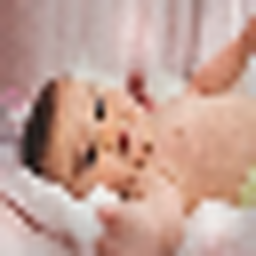
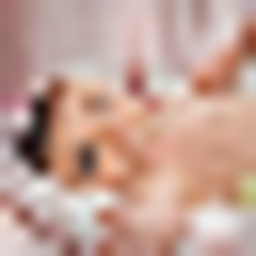
16

diff --git a/preprocess.py b/preprocess.py
@@ -44,4 +44,4 @@ def down(path, factor):
 new_path = os.path.join(os.getcwd(),'hr_image')
 write_path = os.path.join(os.getcwd(), 'lr_image/')
 print(write_path)
-down(new_path, 8)
+down(new_path, 16)
